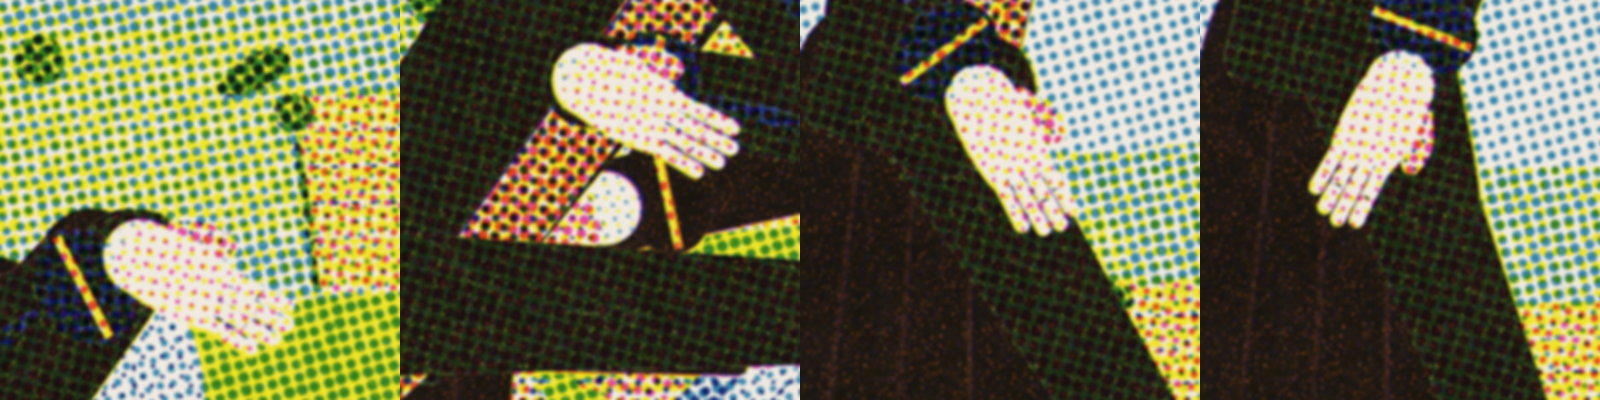
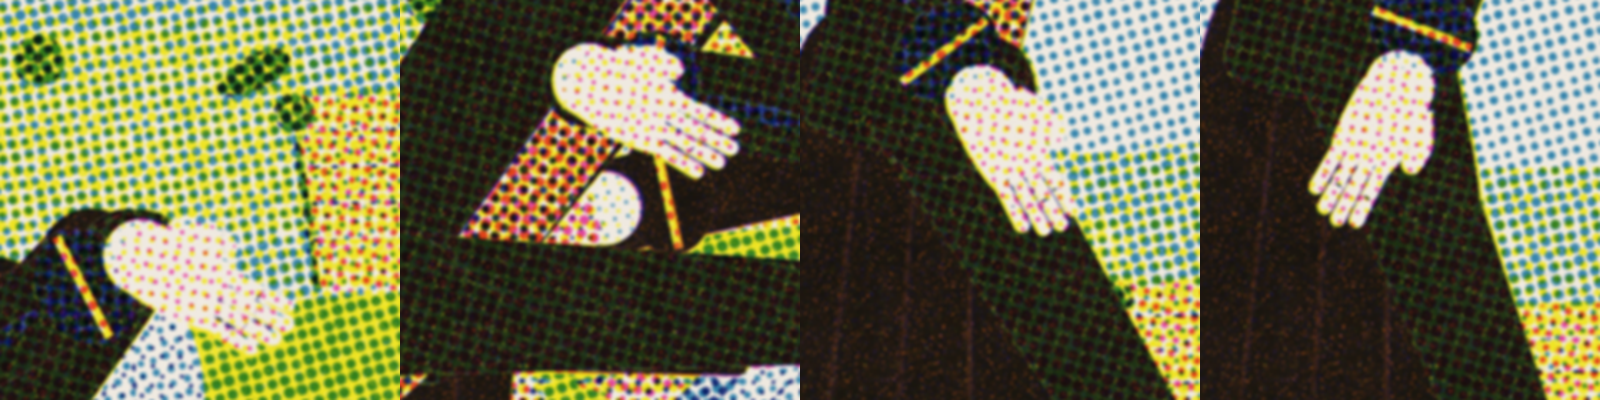
physics-history: Newton's thumb in the hand's own skin; hands skill: one colour for every visible piece
Claude-Session: https://claude.ai/code/session_01FbC8jfwG91neyKwZD6gkGH

diff --git a/sandbox/2026-09-25-physics-history/figure.js b/sandbox/2026-09-25-physics-history/figure.js
@@ -270,7 +270,7 @@ const Fig = (() => {
         const lw = Math.max(1, s * 0.035), EDGE = { 'pink.s': 0.7, 'navy.s': 0.55 };
         // the thumb, alongside, lower: from the heel on its side, pointing along the fingers
         const TH = [X(0.08, 0.2), X(0.26, 0.3), X(0.4, 0.3)];
-        line(press, TH, 0.14 * s, sh); put(press, circle(...TH[2], 0.07 * s), sh);
+        line(press, TH, 0.14 * s, spec); put(press, circle(...TH[2], 0.07 * s), spec); // the same skin as the hand
         // the back of the hand
         const PALM = [X(-0.05, -0.19), X(0.52, -0.21), X(0.56, 0), X(0.52, 0.21), X(-0.05, 0.2)];
         put(press, (g) => smooth(g, PALM), spec);

diff --git a/.claude/skills/hands/SKILL.md b/.claude/skills/hands/SKILL.md
@@ -68,6 +68,7 @@ It never lies along the bar or on top of the fingers' side.
 - **One skin.** Every piece of a hand (palm, fingers, thumb, web) is knocked out and inked
   as one union: trace every outline with the same winding, or overlaps punch holes. Shade
   the hand through one clip.
+- **One colour for every visible piece.** The thumb, the fingers and the back of the hand are inked with the same skin spec; a darker spec is only for a piece that is really in shadow (behind the object, turned away), never for the thumb by default.
 - **No lines across the hand.** The only lines allowed are:
   - the lines between fingers pressed together;
   - one short curved crease per joint, on the finger's middle;
